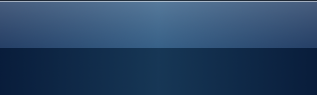
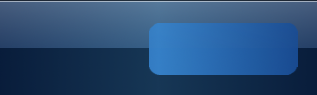
Final touches for COPE Radio UI.

Changed region(s): [[0.4543, 0.2316, 0.9653, 0.8]]

diff --git a/Classes/COPEViewController.m b/Classes/COPEViewController.m
@@ -26,6 +26,8 @@
 - (void)playRadio;
 - (void)privatePlayRadio;
 
+- (void)setRadioNameInTitle;
+
 - (void)showNetworkProblemsAlert;
 
 - (void)reachabilityChanged:(NSNotification *)notification;
@@ -56,24 +58,25 @@ volumeMinimumTrackImage, volumeMaximumTrackImage, volumeThumbImage;
       url = [NSURL URLWithString:@"http://apps.yoteinvoco.com/cope"];
       break;
     case SUPPORT_MAIL_BUTTON: { // email url
-      /*#if defined(BETA) || defined(DEBUG)
-       NSString *log = [NSString stringWithContentsOfFile:
-       [[RNFileLogger sharedLogger] logFile]];
-       NSString *encodedLog = (NSString *)
-       CFURLCreateStringByAddingPercentEscapes(NULL,
-       (CFStringRef)log,
-       NULL,
-       (CFStringRef)@";/?:@&=+$,",
-       kCFStringEncodingUTF8);
-       if (encodedLog)
-       url = [NSURL URLWithString:[NSString stringWithFormat:
-       @"mailto://support@yoteinvoco.com?body=%@",
-       encodedLog]];
-       else
-       url = [NSURL URLWithString:@"mailto://support@yoteinvoco.com?body=No+es+posible+recuperar+el+log"];
-       #else*/
+#if defined(BETA) || defined(DEBUG)
+      NSString *log = [NSString stringWithContentsOfFile:
+                       [[RNFileLogger sharedLogger] logFile]];
+      NSString *encodedLog = (NSString *)
+        CFURLCreateStringByAddingPercentEscapes(NULL,
+                                                (CFStringRef)log,
+                                                NULL,
+                                                (CFStringRef)@";/?:@&=+$,",
+                                                kCFStringEncodingUTF8);
+      if (encodedLog) {
+         url = [NSURL URLWithString:[NSString stringWithFormat:
+                                     @"mailto://support@yoteinvoco.com?body=%@",
+                                     encodedLog]];
+      } else {
+         url = [NSURL URLWithString:@"mailto://support@yoteinvoco.com?body=No+es+posible+recuperar+el+log"];
+      }
+#else
       url = [NSURL URLWithString:@"mailto://support@yoteinvoco.com"];
-      //#endif
+#endif
     break; }
   }
   
@@ -243,6 +246,13 @@ volumeMinimumTrackImage, volumeMaximumTrackImage, volumeThumbImage;
 		// The reachability callback will show its own AlertView.
 		return;
 	}
+  
+  controlButton.hidden = NO;
+  loadingImage.hidden = YES;
+  if (loadingImage.isAnimating)
+    [loadingImage stopAnimating];
+  [controlButton setImage:playImage forState:UIControlStateNormal];
+  [controlButton setImage:playHighlightImage forState:UIControlStateHighlighted];  
 	
 	NSString *message;
 	if (error != nil) {
@@ -260,7 +270,10 @@ volumeMinimumTrackImage, volumeMaximumTrackImage, volumeThumbImage;
 }
 
 - (void)setLoadingState {
-	
+  controlButton.hidden = YES;
+  loadingImage.hidden = NO;
+  if (!loadingImage.isAnimating)
+    [loadingImage startAnimating];
 }
 
 - (void)playRadio {
@@ -268,11 +281,7 @@ volumeMinimumTrackImage, volumeMaximumTrackImage, volumeThumbImage;
 		[self showNetworkProblemsAlert];
 		return;
 	}
-	
-	if (isPlaying) {
-		return;
-	}
-	
+		
 	[NSThread detachNewThreadSelector:@selector(privatePlayRadio)
 							 toTarget:self
 						   withObject:nil];
@@ -281,13 +290,26 @@ volumeMinimumTrackImage, volumeMaximumTrackImage, volumeThumbImage;
 - (void)privatePlayRadio {
 	NSAutoreleasePool *pool = [[NSAutoreleasePool alloc] init];
 	
+  if (isPlaying) {
+    [self stopRadio];
+    
+    // Wait for stop
+    pthread_mutex_lock(&stopMutex);
+    while (isPlaying)
+      pthread_cond_wait(&stopCondition, &stopMutex);
+    pthread_mutex_unlock(&stopMutex);
+  }
+  
 	[self performSelector:@selector(setLoadingState)
 				 onThread:[NSThread mainThread]
 			   withObject:nil
 			waitUntilDone:NO];
 	
-	player = [[Player alloc] initWithString:@"http://195.10.10.105:80/cope/copefm.mp3" audioTypeHint:kAudioFileMP3Type];
-	//player.connectionFilter = [[FIShoutcastMetadataFilter alloc] init];
+  [self setRadioNameInTitle];
+  NSString *radioAddress = [radiosURLS objectAtIndex:activeRadio];
+  NSString *radioURL = [self getRadioURL:radioAddress];
+  
+	player = [[Player alloc] initWithString:radioURL];
 	
 	[player addObserver:self forKeyPath:@"isPlaying" options:0 context:nil];
 	[player addObserver:self forKeyPath:@"failed" options:0 context:nil];
@@ -296,6 +318,10 @@ volumeMinimumTrackImage, volumeMaximumTrackImage, volumeThumbImage;
 	isPlaying = YES;
 	
 	[pool release];
+}
+
+- (void)setRadioNameInTitle {
+  stationLabel.text = [radiosList objectAtIndex:activeRadio];
 }
 
 - (void)observeValueForKeyPath:(NSString *)keyPath
@@ -317,7 +343,10 @@ volumeMinimumTrackImage, volumeMaximumTrackImage, volumeThumbImage;
 				[player release];
 				player = nil;
 				
+        pthread_mutex_lock(&stopMutex);
 				isPlaying = NO;
+        pthread_cond_signal(&stopCondition);
+        pthread_mutex_unlock(&stopMutex);
 				
 				[self performSelector:@selector(setStopState)
 							 onThread:[NSThread mainThread]
@@ -459,6 +488,8 @@ volumeMinimumTrackImage, volumeMaximumTrackImage, volumeThumbImage;
 	[[NSUserDefaults standardUserDefaults] objectForKey:@"activeRadio"];
 	if (result != nil) {
 		activeRadio = [result intValue];
+    if (activeRadio != -1)
+      [self setRadioNameInTitle];
 	} else
 		activeRadio = -1;
 	
@@ -494,7 +525,6 @@ volumeMinimumTrackImage, volumeMaximumTrackImage, volumeThumbImage;
 	
 	[radiosList release];
 	[radiosURLS release];
-	
 	
 	[super dealloc];
 }
